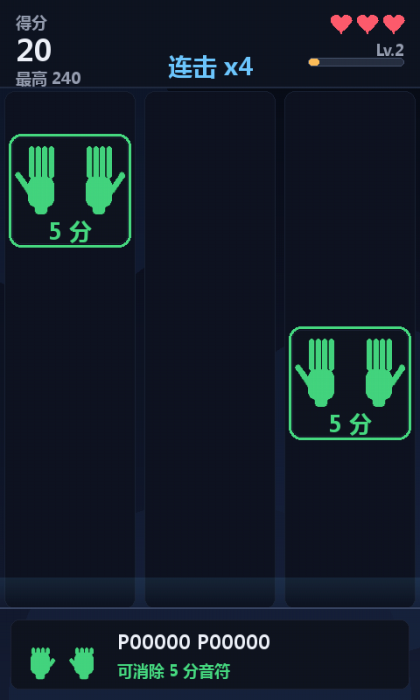
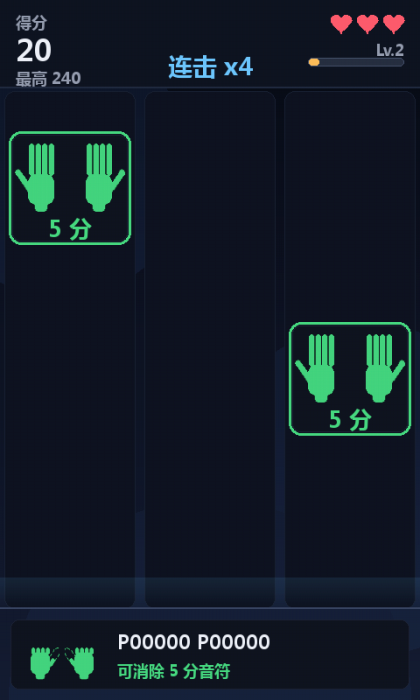
feat: 音符手势图用虚线勾出收起大拇指的伸出轮廓
收起的大拇指除画成短杆外，再用虚线勾出它伸出时的胶囊轮廓，
让「这只手的拇指要收起」一眼可辨；手势图缓存与卡片渲染不受影响。

diff --git a/gesture_icons.py b/gesture_icons.py
@@ -4,13 +4,17 @@
 No image assets are needed: every 6 character hand code is turned into a small
 hand pictogram (palm + five fingers).  Extended fingers are drawn long, folded
 fingers short, and the thumb is drawn on the side that matches its ``P`` / ``N``
-direction, so the picture fully shows the gesture of a falling note.
+direction, so the picture fully shows the gesture of a falling note.  A folded
+thumb is additionally outlined with a dashed ghost of the extended thumb, which
+makes "this thumb has to stay folded" readable at a glance.
 
 Surfaces are cached per ``(code, side, colour, size)`` because the same
 gestures are drawn again and again while notes fall.
 """
 
 from __future__ import absolute_import
+
+import math
 
 import pygame
 
@@ -34,6 +38,76 @@ def _scale_points(points, size):
     sx = size[0] / float(CANVAS[0])
     sy = size[1] / float(CANVAS[1])
     return [(int(round(x * sx)), int(round(y * sy))) for x, y in points]
+
+
+def _dashed_polyline(surface, color, points, width, dash=5.0, gap=4.0):
+    """Draw a polyline with dashes (the lengths are in surface pixels)."""
+    if len(points) < 2:
+        return
+    draw_on = True
+    remaining = dash
+    previous = points[0]
+    for target in points[1:]:
+        seg_x = target[0] - previous[0]
+        seg_y = target[1] - previous[1]
+        seg_length = math.hypot(seg_x, seg_y)
+        if seg_length < 1e-6:
+            previous = target
+            continue
+        position = 0.0
+        while position < seg_length - 1e-6:
+            step = min(remaining, seg_length - position)
+            t0 = position / seg_length
+            t1 = (position + step) / seg_length
+            if draw_on:
+                pygame.draw.line(
+                    surface, color,
+                    (previous[0] + seg_x * t0, previous[1] + seg_y * t0),
+                    (previous[0] + seg_x * t1, previous[1] + seg_y * t1),
+                    width)
+            position += step
+            remaining -= step
+            if remaining <= 1e-6:
+                draw_on = not draw_on
+                remaining = dash if draw_on else gap
+        previous = target
+
+
+def _dashed_thumb_ghost(surface, color, start, end, bar_width, size):
+    """Outline the *extended* thumb with a dashed line.
+
+    A folded thumb is only a short stub, which is easy to confuse with an
+    extended one.  The dashed outline shows where the thumb would be if it were
+    extended, i.e. "this one has to stay folded".
+    """
+    sx = size[0] / float(CANVAS[0])
+    sy = size[1] / float(CANVAS[1])
+    x1, y1 = start
+    x2, y2 = end
+    dx, dy = x2 - x1, y2 - y1
+    length = math.hypot(dx, dy)
+    if length < 1e-6:
+        return
+    # Slightly wider than the solid thumb so the hint surrounds it.
+    half = bar_width * 0.62
+    nx = -dy / length * half
+    ny = dx / length * half
+    # Capsule outline: one side, the rounded tip, then the other side.
+    points = [(x1 + nx, y1 + ny), (x2 + nx, y2 + ny)]
+    for step in range(1, 6):
+        angle = math.pi * step / 6.0
+        points.append((x2 + nx * math.cos(angle) + dx / length * half *
+                       math.sin(angle),
+                       y2 + ny * math.cos(angle) + dy / length * half *
+                       math.sin(angle)))
+    points.append((x2 - nx, y2 - ny))
+    points.append((x1 - nx, y1 - ny))
+
+    _dashed_polyline(
+        surface, color, _scale_points(points, size),
+        width=max(2, int(2.4 * min(sx, sy))),
+        dash=max(3.5, 5.0 * min(sx, sy)),
+        gap=max(2.5, 3.5 * min(sx, sy)))
 
 
 def _draw_hand(surface, code6, side, color, size):
@@ -63,15 +137,19 @@ def _draw_hand(surface, code6, side, color, size):
         else:
             rect(x, 34, 7, 12, 3)
 
-    # Thumb: a diagonal bar on the proper side of the palm.
+    # Thumb: a diagonal bar on the proper side of the palm.  A folded thumb is
+    # drawn as a short stub plus a dashed outline of the extended thumb.
     tip_x = 60 if thumb_right else 4
     base_x = 46 if thumb_right else 18
+    extended_start = (base_x, 60)
+    extended_end = (tip_x, 40)
     if bits[0] == "1":
-        start = (base_x, 60)
-        end = (tip_x, 40)
+        start, end = extended_start, extended_end
     else:
         start = (base_x, 64)
         end = ((base_x + tip_x) / 2.0, 55)
+        _dashed_thumb_ghost(surface, color, extended_start, extended_end,
+                            9.0, size)
     start = _scale_points([start], size)[0]
     end = _scale_points([end], size)[0]
     width = max(3, int(9 * min(sx, sy)))

diff --git a/docs/实现报告.md b/docs/实现报告.md
@@ -125,8 +125,9 @@ READY --(双手张开保持 0.7 s)--> PLAYING --(机会用尽)--> OVER
 
 - **音符卡片** 140×130：双手手势图 + 分值，5/10/15 分分别用绿/蓝/红。
 - **手势图**：`gesture_icons.py` 用掌 + 5 指程序化绘制，展开的手指画长、收起的画短，
-  拇指按 P/N 画在左/右侧。手形按 `(编码, 左右手, 颜色, 尺寸)` 缓存，卡片再按
-  `(编码, 分值, 尺寸, 字体)` 缓存。
+  拇指按 P/N 画在左/右侧。**收起的大拇指画成短杆，并用虚线勾出伸出时的大拇指轮廓**，
+  提示这只手的拇指保持收起，避免与伸出的大拇指混淆。手形按 `(编码, 左右手, 颜色, 尺寸)` 缓存，
+  卡片再按 `(编码, 分值, 尺寸, 字体)` 缓存。
 - **反馈**：命中飘 `+5/+10/+15` 与彩色边框闪光，漏掉红屏，连击 ≥ 2 显示连击数。
 - **音效**：5/10/15 分命中音高不同，另有漏掉低音、开始上行、结束下行；`GAME_NO_SOUND=1` 可关。
 

diff --git a/README.md b/README.md
@@ -52,7 +52,8 @@ run_game.bat
 ## 玩法
 
 1. 双手张开保持 **0.7 秒**，游戏开始；**每一局都要这样开始**（结束后重新开始也一样）；
-2. 手势音符从顶端下落，卡片上画着双手要做的动作和分值；
+2. 手势音符从顶端下落，卡片上画着双手要做的动作和分值；**收起的大拇指会额外用虚线勾出伸出时的轮廓**，
+   提示这只手的拇指要收起来；
 3. 用双手做出卡片上的手势，即可消除**最靠下的那个**匹配音符并得分（0.22 秒冷却）；
 4. 音符落到判定线以下算漏掉，扣 1 次机会，整局共 **3 次**；
 5. 机会用尽 → 游戏结束，显示本局得分、历史最高分；点击「重新开始」或按空格回到开始界面，
